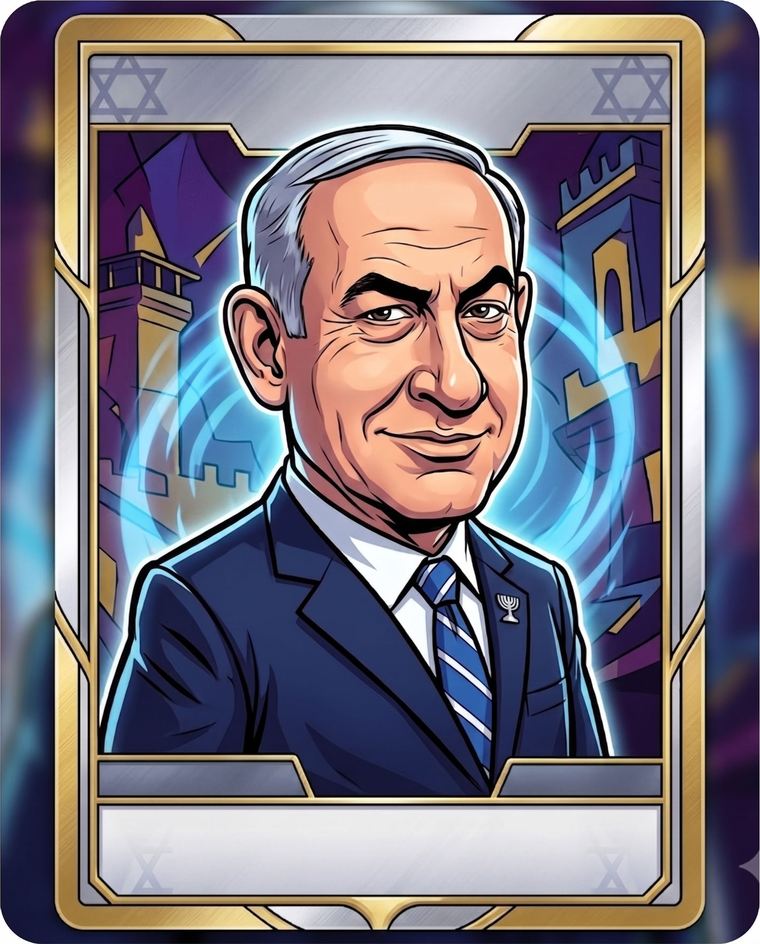
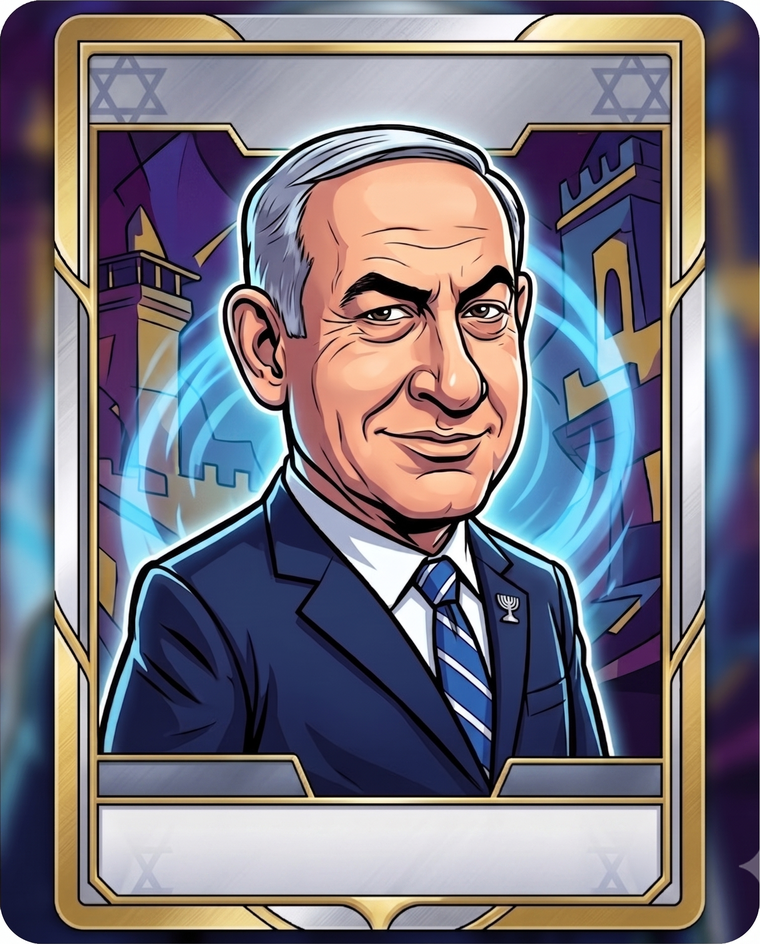
feat(assets): 6 rarity frame overlays (cropped + transparent-window) + cleaner Bibi
Crop the 6 design frames (gold/silver/bronze/blue-sapphire/ruby/green-sapphire)
into separate assets, plus transparent-window -overlay variants proven to
composite over bare content. Re-wire Netanyahu with the higher-res watermark-free
source. Frames are for the future decouple-the-frame overlay system; tier mapping
(6 frames vs the live 5-tier ladder) is a deferred design call — see README.

diff --git a/docs/card-overlay-assets/README.md b/docs/card-overlay-assets/README.md
@@ -1,21 +1,30 @@
-# Card overlay assets (future work)
+# Card overlay assets (decouple-the-frame system)
 
-When we want **dynamic per-card content rendered as an app overlay** (instead of
-baked into the PNG), these are the starting assets:
+Assets for rendering the **frame as an overlay** instead of baking it into each
+caricature PNG. Proven working: a transparent-window frame composited over bare
+content (photo or frameless caricature) = a finished card; swapping the frame
+changes the tier with **zero caricature regen**.
 
-- `bibi-clean-empty-plates.png` — a clean gold-frame card with TWO empty bottom
-  plates (a thin accent strip + a large name plate). The live Netanyahu card
-  (`public/caricatures/965.png`) uses this with the plates left empty.
-- `nameplate-template.png` — the large empty plate cropped out, the canvas for
-  rendered text.
+## Frames (`frames/`)
+Six rarity frames, cropped from the design sheet (~565×770, 4:5):
+`gold` · `silver` · `bronze` · `blue-sapphire` · `ruby` · `green-sapphire`.
+- `frame-<tier>.png` — opaque crop (dark portrait window).
+- `frame-<tier>-overlay.png` — **window knocked out to transparent** → ready to
+  composite over content. Each frame includes the top banner, the LEADER + gem +
+  PWR/DEF stat row, and the empty bottom name plate.
 
-## The idea (deferred)
-Render the politician's **name** and game-dynamic bits — e.g. **rank / place on
-the leaderboard / recent order** — as a CSS/SVG/text overlay positioned over the
-plate region, colored by rarity tier. This pairs with the decouple-the-frame
-direction: caricature + frame baked, but the name/stats plate is live data, so
-nothing needs regenerating when a rank or name changes.
+Composite: cover-fit the content image into the frame's transparent window bbox,
+then `alpha_composite` the frame on top. (Window bbox is detectable as the
+alpha==0 region; for gold it's ~x[47..519] y[110..716] within the 565×774 frame.)
 
-Pattern: position the overlay over the plate's normalized rect (the plate sits in
-roughly the bottom ~18% of the 4:5 card), render the name in the app's display
-font, tier-tinted. Today the plates are decorative/empty.
+## Name plate (`nameplate-template.png`, `bibi-clean-empty-plates.png`)
+The large empty plate to render **name / rank / place-on-list** as live text,
+tier-tinted, over the plate region.
+
+## ⚠ Tier mapping is a NEW design decision (deferred)
+These six frames (gold/silver/bronze/blue-sapphire/ruby/green-sapphire) are a
+RICHER set than the live 5-tier ladder in `lib/rarity.ts`
+(legendary=gold, epic=silver, rare=bronze, uncommon=sapphire, common=slate).
+There is no "slate" frame here, and Ruby + Green-Sapphire are new. Before wiring
+the overlay system, decide how the 120 politicians map onto these 6 frames
+(e.g. faction-colored gems for the backbench instead of one flat slate).
